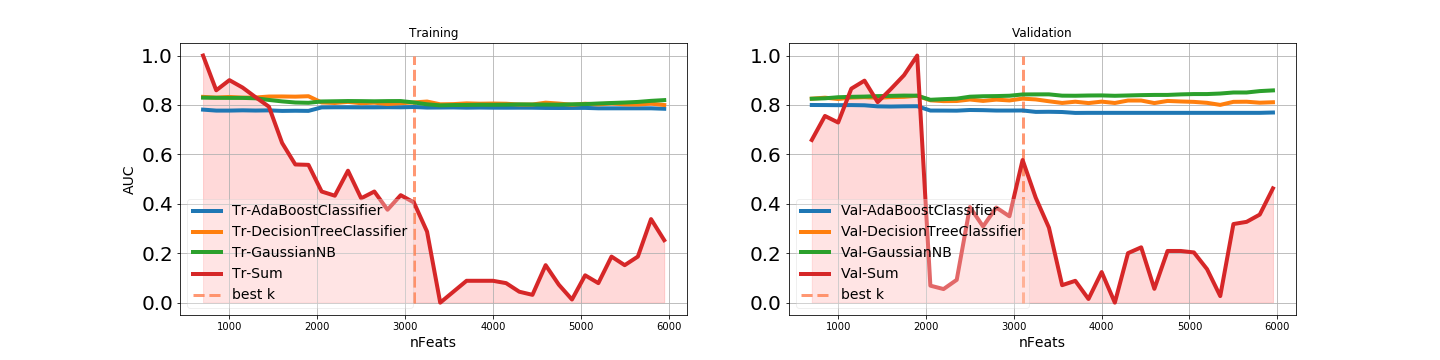
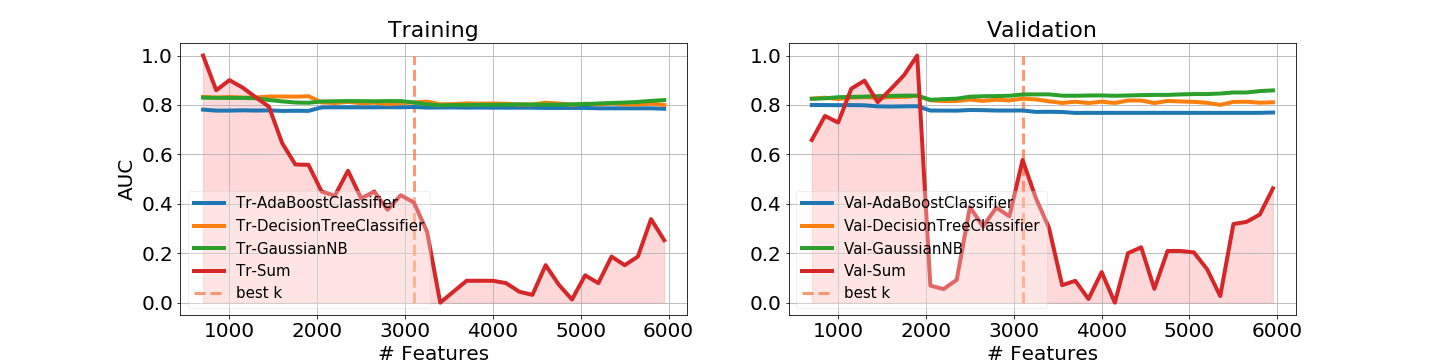
Prepped for show n tell

diff --git a/myfunk.py b/myfunk.py
@@ -834,11 +834,11 @@ def plot_dimensionality_series(f, axes, df1, cols):
     for i,ax in enumerate(axes):
         if i%2==0:
             c = [p for p in df1.Phase.unique() if p.startswith('Tr')]
-            ax.set_title('Training')
-            ax.set_ylabel(cols[i])
+            ax.set_title('Training', fontsize=22)
+            ax.set_ylabel(cols[i], fontsize=20)
         else:
             c = [p for p in df1.Phase.unique() if p.startswith('Val')]
-            ax.set_title('Validation')
+            ax.set_title('Validation', fontsize=22)
 
         df2 = df1.pivot(index='nFeats', columns='Phase', values=cols[i])
 
@@ -855,7 +855,8 @@ def plot_dimensionality_series(f, axes, df1, cols):
         ax.grid()
 
         if i < 2 or i > 13:
-            ax.legend(loc = 'lower left', fontsize=14, framealpha=0.3, fancybox=True)
+            ax.legend(loc = 'lower left', fontsize=15, framealpha=0.3, fancybox=True)
+            ax.set_xlabel('# Features',fontsize=20)
         else:
             ax.get_legend().remove()
             ax.set_xlabel('')

diff --git a/.ipynb_checkpoints/README-checkpoint.md b/.ipynb_checkpoints/README-checkpoint.md
@@ -4,7 +4,6 @@
 
 Description:
 - Use the data contained in p2_data.csv to build a binary classifier to predict the “PreventiveFlag” label using the text features provided. 
-- This model can be used to automate the detection of ineligible line items. 
 
 ### Files: 
 - The data folder has the csv files provided by source. 
@@ -150,12 +149,15 @@ fig.savefig(path+'/graphics/TrainValRoCurve.png', dpi=fig.dpi)
 ```
 ![**Figure. **](graphics/TrainValRoCurve.png)
 
-From the Roc curve above it's a good thing that the scores on both sets are pretty much alike, thus it is less likely the model is overfitting. 
-Joining the validation set with the training set (to get the maximum samples possible) augmented the average precision by 0.01
+From the ROC curve (TPR vs FPR) above, it's shown that the scores on both (Validation and Training) sets are pretty much alike, thus it is less likely the model is overfitting.
+
+The true positive rate (TPR or Recall) in the vertical axis almost reaches 0.8 with an almost non existing false positives. However, if we care about maximizing true positives, I will have to decrease the cut-off. This way more events will be classified as class 1, some will be true ones however the false positive rate will also increase and 20% more will be false positives. This is the business decision.
 
 ---
 ### 5. Conclusion and future work
 
-The AUC score lowered as expected since more variance was added thanks to the data samples from the validation set. To compensate the class imbalance, I attempted to ensemble different resampled datasets. This consisted in dividing the instances of class 1 in 3 unequal segments where each segment would be concatenated with all of the class 0 (the minority) instances and assign a classifyier to them. However that didnt improve the baseline's score. Another option could have been to include more features pertaining to the minority class and even expand the set with a higher value for n-grams. Also if I had more free time to work on this project, I'd check the option of finding Word2vecs that could be clustered for each class. 
+The AUC score lowered as expected since more variance was added thanks to the data samples from the validation set. But it is important to know that the more data samples we have, the less likely the model will tend to overfit. 
+
+To compensate the class imbalance, I attempted to ensemble different resampled datasets. This consisted in dividing the instances of class 1 in 3 unequal segments where each segment would be concatenated with all of the class 0 (the minority) instances and assign a classifyier to them. However that didnt improve the baseline's score. Another option could have been to include more features pertaining to the minority class and even expand the set with a higher value for n-grams. Also if I had more free time to work on this project, I'd check the option of finding Word2vecs that could be clustered for each class. 
 
 On another note, the duplicates affected positively in the classification. In the dataset with (said) outliers and duplicates, the validation score showed the highest AUC as well as the rest of the metrics. However in the final classification where the validation set is merged with the training data, the removal of outliers showed to have the highest AUC score and the recall of the minority class. 

diff --git a/README.md b/README.md
@@ -4,7 +4,6 @@
 
 Description:
 - Use the data contained in p2_data.csv to build a binary classifier to predict the “PreventiveFlag” label using the text features provided. 
-- This model can be used to automate the detection of ineligible line items. 
 
 ### Files: 
 - The data folder has the csv files provided by source. 
@@ -150,12 +149,15 @@ fig.savefig(path+'/graphics/TrainValRoCurve.png', dpi=fig.dpi)
 ```
 ![**Figure. **](graphics/TrainValRoCurve.png)
 
-From the Roc curve above it's a good thing that the scores on both sets are pretty much alike, thus it is less likely the model is overfitting. 
-Joining the validation set with the training set (to get the maximum samples possible) augmented the average precision by 0.01
+From the ROC curve (TPR vs FPR) above, it's shown that the scores on both (Validation and Training) sets are pretty much alike, thus it is less likely the model is overfitting.
+
+The true positive rate (TPR or Recall) in the vertical axis almost reaches 0.8 with an almost non existing false positives. However, if we care about maximizing true positives, I will have to decrease the cut-off. This way more events will be classified as class 1, some will be true ones however the false positive rate will also increase and 20% more will be false positives. This is the business decision.
 
 ---
 ### 5. Conclusion and future work
 
-The AUC score lowered as expected since more variance was added thanks to the data samples from the validation set. To compensate the class imbalance, I attempted to ensemble different resampled datasets. This consisted in dividing the instances of class 1 in 3 unequal segments where each segment would be concatenated with all of the class 0 (the minority) instances and assign a classifyier to them. However that didnt improve the baseline's score. Another option could have been to include more features pertaining to the minority class and even expand the set with a higher value for n-grams. Also if I had more free time to work on this project, I'd check the option of finding Word2vecs that could be clustered for each class. 
+The AUC score lowered as expected since more variance was added thanks to the data samples from the validation set. But it is important to know that the more data samples we have, the less likely the model will tend to overfit. 
+
+To compensate the class imbalance, I attempted to ensemble different resampled datasets. This consisted in dividing the instances of class 1 in 3 unequal segments where each segment would be concatenated with all of the class 0 (the minority) instances and assign a classifyier to them. However that didnt improve the baseline's score. Another option could have been to include more features pertaining to the minority class and even expand the set with a higher value for n-grams. Also if I had more free time to work on this project, I'd check the option of finding Word2vecs that could be clustered for each class. 
 
 On another note, the duplicates affected positively in the classification. In the dataset with (said) outliers and duplicates, the validation score showed the highest AUC as well as the rest of the metrics. However in the final classification where the validation set is merged with the training data, the removal of outliers showed to have the highest AUC score and the recall of the minority class. 
